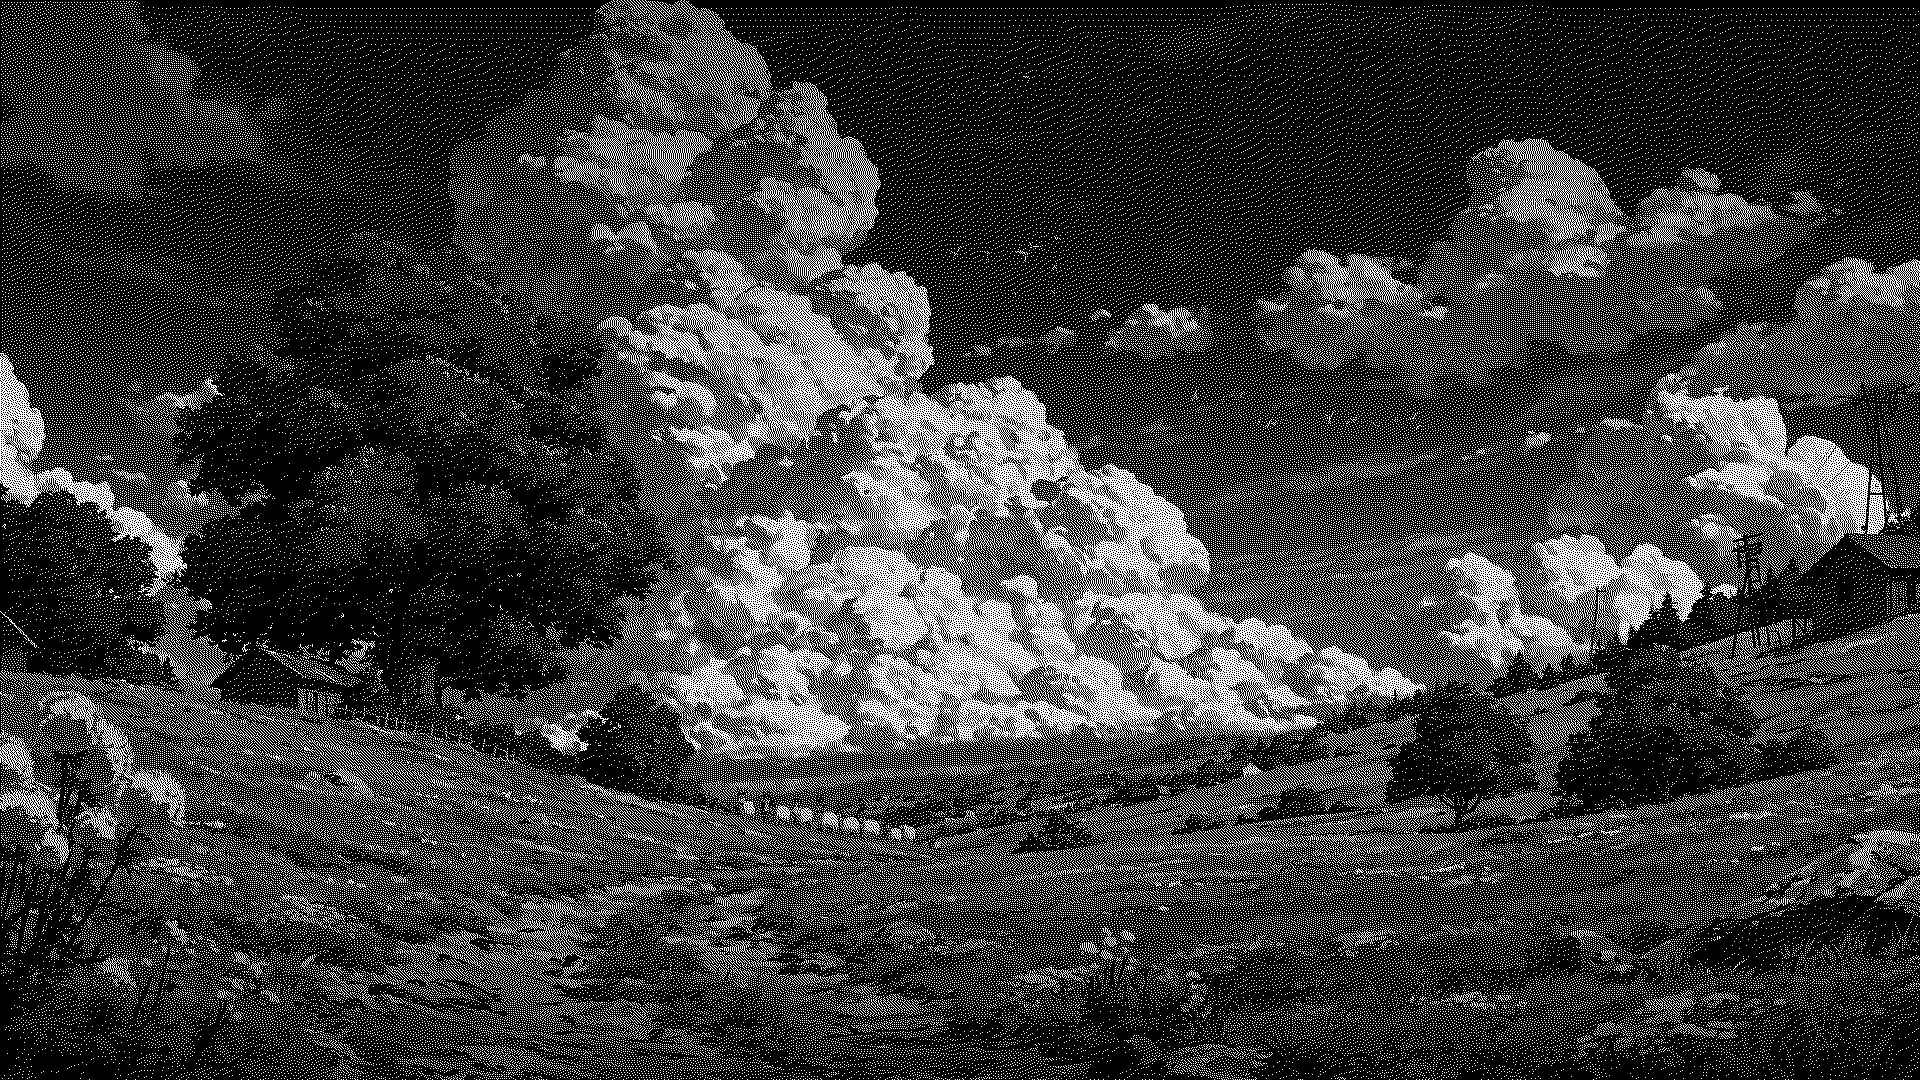
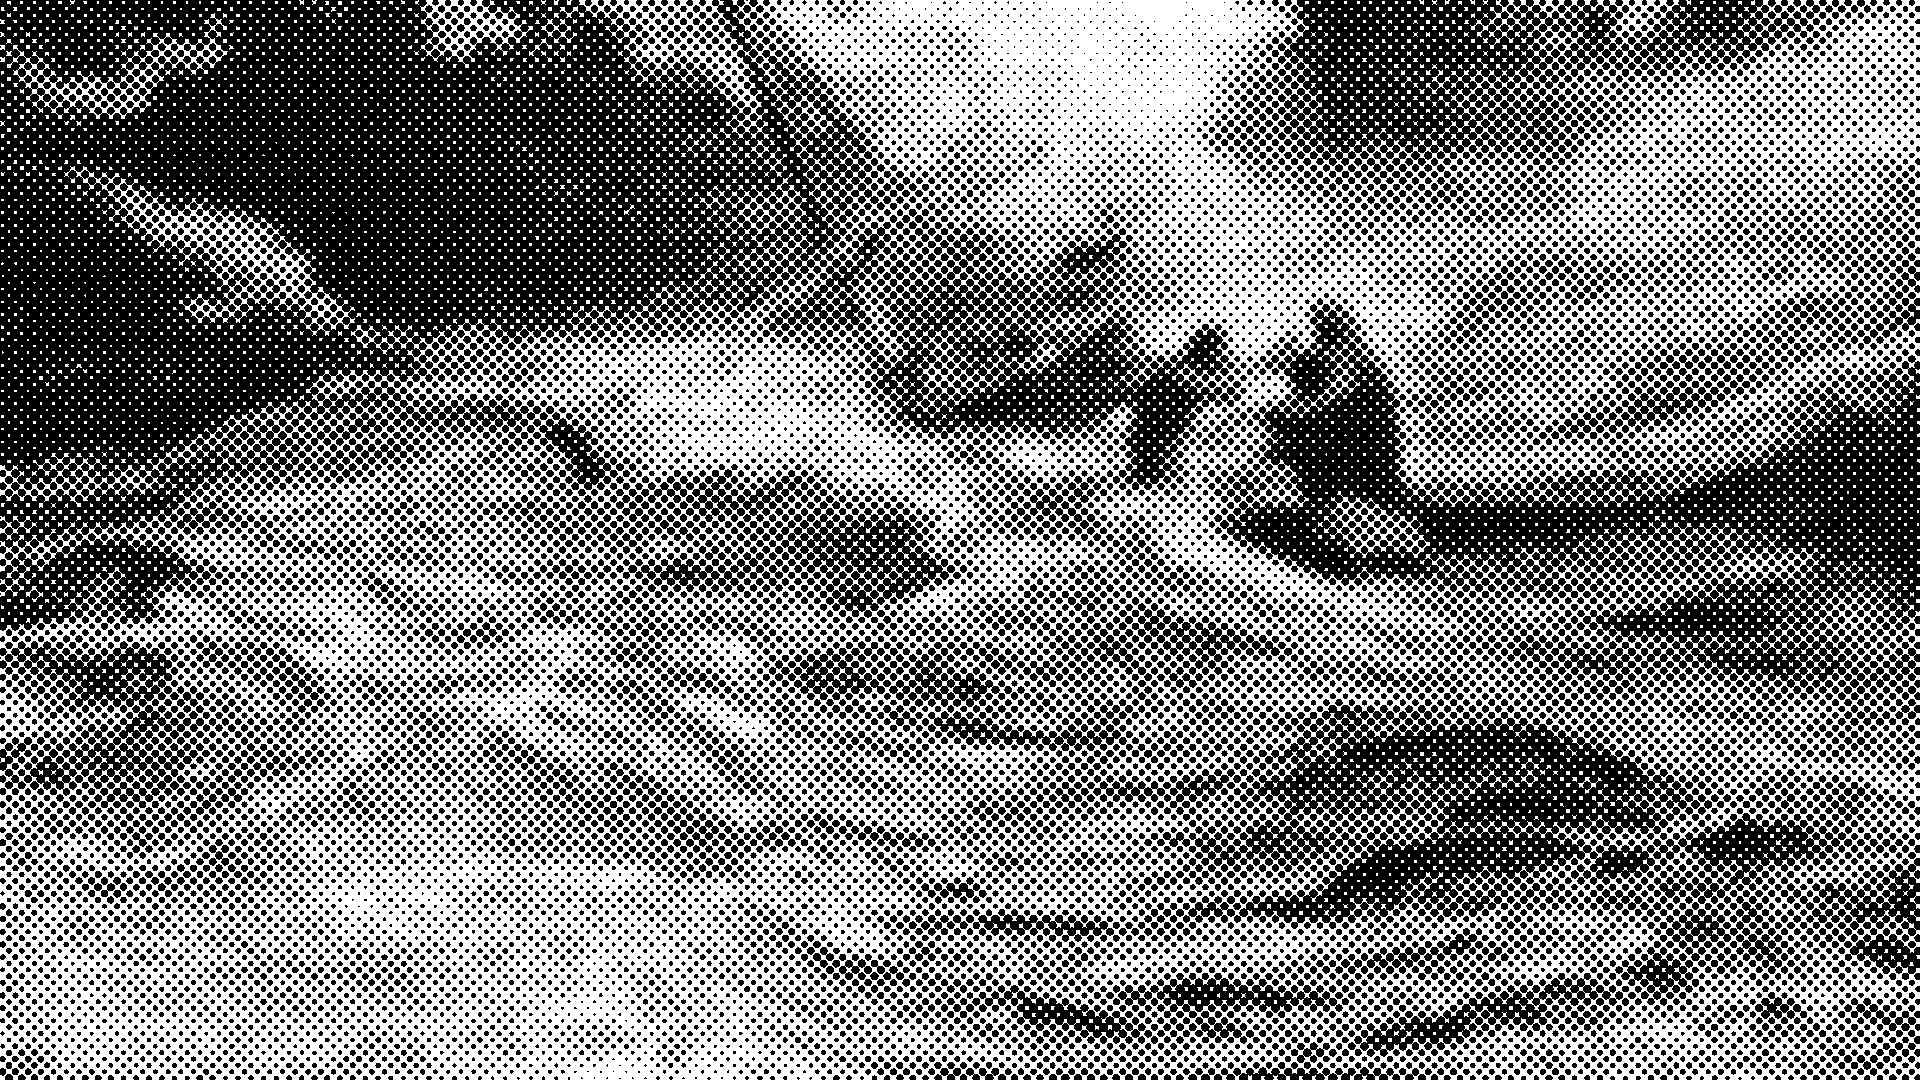
Samsung: halftone background, glass clock, centred standby, WWW → HDMI 3
The moving dither is gone: the background is now a 45-degree halftone of the
engraving, generated by tools/make_bg.py from tools/bg-source.jpg, so the dots
stay crisp at 1920 x 1080 and the picture keeps the same 16:9 crop.

The clock gets the same light-edged dark glass as the weather and the dock, with
a 10 px backdrop blur. When the screensaver takes over, the background dims by
half, the clock moves to the centre on its glass, and the date stays on it.

The remote's WWW key now opens HDMI 3, the way the native Home assignment sends
Home here: every browser-ish key the TV lists is registered and its code is
accepted, and the key name is matched too.

diff --git a/web/bw.css b/web/bw.css
@@ -1,7 +1,8 @@
 /*
- * Black-and-white look, on top of home.css: a dithered landscape behind everything, the clock at the top left, the next
+ * Black-and-white look, on top of home.css: a halftone seascape behind everything, the clock at the top left, the next
  * six hours of weather at the top center, Free My TV's settings at the top right and a dock of white logos.
- * Same limits as home.css: no CSS variables, grid or backdrop-filter; only transform and opacity animate.
+ * Same limits as home.css: no CSS variables or grid; only transform and opacity animate. The glass asks for a backdrop
+ * blur too, which older TVs ignore and show as flat dark glass.
  */
 
 html, body { background: #000; }
@@ -14,11 +15,17 @@ html, body { background: #000; }
 /* Nothing from the picks layout. */
 #title, #tabs, #quotes, #cards { display: none; }
 
-/* Clock: top left. */
+/* Clock: top left, on the same light-edged glass as the weather and the dock. */
 #clock, .no-picks #clock {
   display: block;
-  left: 76px;
-  top: 60px;
+  left: 48px;
+  top: 34px;
+  padding: 26px 44px 30px;
+  border-radius: 46px;
+  background: rgba(0, 0, 0, 0.5);
+  box-shadow: 0 18px 40px rgba(0, 0, 0, 0.35), inset 0 0 0 1.5px rgba(255, 255, 255, 0.32);
+  -webkit-backdrop-filter: blur(10px);
+  backdrop-filter: blur(10px);
   font-size: 150px;
   font-weight: 200;
   color: #F5F5F5;
@@ -37,8 +44,10 @@ html, body { background: #000; }
   transform: translateX(-50%);
   padding: 18px 30px;
   border-radius: 28px;
-  background: rgba(0, 0, 0, 0.68);
-  box-shadow: inset 0 0 0 1px rgba(255, 255, 255, 0.14);
+  background: rgba(0, 0, 0, 0.5);
+  box-shadow: inset 0 0 0 1.5px rgba(255, 255, 255, 0.32);
+  -webkit-backdrop-filter: blur(10px);
+  backdrop-filter: blur(10px);
   color: #F5F5F5;
   white-space: nowrap;
   font-feature-settings: 'tnum';
@@ -71,10 +80,12 @@ html, body { background: #000; }
 .round.focus, .night .round.focus { background: #F5F5F5; color: #000; }
 .round .tip, .night .round.focus .tip { color: #F5F5F5; }
 
-/* Dock: dark glass with white logos; the focused tile turns white with a black logo. */
+/* Dock: light-edged dark glass with white logos; the focused tile turns white with a black logo. */
 #platter, .night #platter {
-  background: rgba(0, 0, 0, 0.55);
-  box-shadow: 0 18px 40px rgba(0, 0, 0, 0.4), inset 0 0 0 1px rgba(255, 255, 255, 0.14);
+  background: rgba(0, 0, 0, 0.5);
+  box-shadow: 0 18px 40px rgba(0, 0, 0, 0.4), inset 0 0 0 1.5px rgba(255, 255, 255, 0.32);
+  -webkit-backdrop-filter: blur(10px);
+  backdrop-filter: blur(10px);
 }
 .tile, .night .tile { background: transparent; box-shadow: none; color: #F5F5F5; }
 .tile::after { display: none; }
@@ -85,5 +96,26 @@ html, body { background: #000; }
 .tile.off { opacity: 0.35; }
 .more, .night .more { color: rgba(245, 245, 245, 0.8); }
 
-/* Screensaver: the same landscape when there are no photos. */
+/* Screensaver: the same landscape when there are no photos, dimmed by half, with the clock centred on glass. */
 #saver { background: #000 url('bg.png') 0 0 no-repeat; background-size: 1920px 1080px; }
+#saver .shade {
+  left: 0;
+  right: 0;
+  top: 0;
+  bottom: 0;
+  height: auto;
+  background: rgba(0, 0, 0, 0.5);
+}
+#saver .clock {
+  left: 50%;
+  top: 50%;
+  bottom: auto;
+  -webkit-transform: translate(-50%, -50%);
+  transform: translate(-50%, -50%);
+  text-align: center;
+  background: rgba(0, 0, 0, 0.5);
+  box-shadow: 0 18px 40px rgba(0, 0, 0, 0.35), inset 0 0 0 1.5px rgba(255, 255, 255, 0.32);
+  -webkit-backdrop-filter: blur(10px);
+  backdrop-filter: blur(10px);
+}
+#saver .clock .date, .night #saver .clock .date { color: rgba(245, 245, 245, 0.78); }

diff --git a/web/tv.js b/web/tv.js
@@ -612,7 +612,22 @@ var TV = (function () {
       try { return Intl.DateTimeFormat().resolvedOptions().timeZone || ''; } catch (e) { return ''; }
     },
 
-    /** Key codes: the arrows, OK and the TV's Back (LG 461, Samsung 10009). */
-    keys: {left: 37, up: 38, right: 39, down: 40, ok: 13, back: samsung ? 10009 : 461}
+    /** Key codes: the arrows, OK, the TV's Back (LG 461, Samsung 10009) and the WWW/browser key. */
+    keys: (function () {
+      var k = {left: 37, up: 38, right: 39, down: 40, ok: 13, back: samsung ? 10009 : 461, www: [150, 178]};
+      // The WWW key's name differs by model; register every browser-ish key the TV lists and accept its code too.
+      if (samsung) {
+        try {
+          var list = window.tizen.tvinputdevice.getSupportedKeys();
+          for (var i = 0; i < list.length; i++) {
+            var name = list[i].name || '';
+            if (!/www|browser|internet/i.test(name)) continue;
+            try { window.tizen.tvinputdevice.registerKey(name); } catch (e) {}
+            if (k.www.indexOf(list[i].code) < 0) k.www.push(list[i].code);
+          }
+        } catch (e) {}
+      }
+      return k;
+    })()
   };
 })();

diff --git a/web/home.js b/web/home.js
@@ -879,6 +879,11 @@
     };
   }
 
+  /** The remote's WWW / Internet key goes straight to HDMI 3, the way the native Home assignment sends Home here. */
+  function wwwKey() {
+    launcher('source:HDMI:3', 'HDMI 3')();
+  }
+
   function tvSettings() {
     TV.settings(function (ok) {
       if (!ok) toast(tr("Couldn't open TV Settings"));
@@ -1112,6 +1117,7 @@
   document.addEventListener('keydown', function (e) {
     var k = e.keyCode;
     if (poke()) { e.preventDefault(); return; }   // the first press only wakes the screen
+    if (TV.keys.www.indexOf(k) >= 0 || /www|browser|internet/i.test(e.key || '')) { wwwKey(); e.preventDefault(); return; }
     if (k === TV.keys.left) move(-1, 0);
     else if (k === TV.keys.right) move(1, 0);
     else if (k === TV.keys.up) move(0, -1);

diff --git a/tools/make_bg.py b/tools/make_bg.py
@@ -1,0 +1,82 @@
+"""Makes the home screen's background: tools/bg-source.jpg as a 1920 x 1080 black-and-white halftone.
+
+    python3 tools/make_bg.py
+
+The source (a 16:9 crop of the engraving) is levelled and drawn as a 45-degree dot screen: one round black dot per
+cell, its size following the cell's darkness, the way a printed halftone does. The result is 1-bit, so the TV shows it
+crisp at any scale. web/bg.png is also the screensaver's background.
+"""
+import math
+import os
+
+from PIL import Image, ImageDraw, ImageFilter
+
+ROOT = os.path.dirname(os.path.dirname(os.path.abspath(__file__)))
+SRC = os.path.join(ROOT, 'tools', 'bg-source.jpg')
+OUT = os.path.join(ROOT, 'web', 'bg.png')
+
+WIDTH, HEIGHT = 1920, 1080
+CELL = 9          # distance between neighbouring dots, in pixels
+BLACK, WHITE = 85, 220   # levels: everything below BLACK is solid, above WHITE is blank
+GAMMA = 0.9
+MAX_RADIUS = 1.15  # times half a cell, so solid areas close up instead of leaving white corners
+SUPERSAMPLE = 3
+
+
+def crop_16x9(im):
+    """Center crop to 16:9 without stretching."""
+    want = WIDTH / float(HEIGHT)
+    w, h = im.size
+    if w / float(h) > want:
+        nw = int(h * want)
+        x = (w - nw) // 2
+        return im.crop((x, 0, x + nw, h))
+    nh = int(w / want)
+    y = (h - nh) // 2
+    return im.crop((0, y, w, y + nh))
+
+
+def levels(im):
+    lut = []
+    for v in range(256):
+        t = (v - BLACK) / float(WHITE - BLACK)
+        t = 0.0 if t < 0 else (1.0 if t > 1 else t)
+        lut.append(int(255 * (t ** GAMMA)))
+    return im.point(lut)
+
+
+def halftone(im):
+    # Draw at 3x and shrink, so each dot gets a round edge before the 1-bit cut. The screen is turned 45 degrees,
+    # which is how printed halftones look and keeps the dots from lining up with the picture's own lines.
+    scale = SUPERSAMPLE
+    sheet = Image.new('L', (WIDTH * scale, HEIGHT * scale), 255)
+    draw = ImageDraw.Draw(sheet)
+    dot = im.filter(ImageFilter.GaussianBlur(CELL / 2.0))
+    step = CELL / math.sqrt(2)
+    span = int((WIDTH + HEIGHT) / step) + 4
+    radius_max = CELL / 2.0 * MAX_RADIUS
+    for i in range(-span, span + 1):
+        for j in range(-span, span + 1):
+            x = (i - j) * step + CELL
+            y = (i + j) * step + CELL
+            if x < -CELL or x > WIDTH + CELL or y < -CELL or y > HEIGHT + CELL:
+                continue
+            v = dot.getpixel((max(0, min(WIDTH - 1, int(x))), max(0, min(HEIGHT - 1, int(y)))))
+            radius = radius_max * ((1.0 - v / 255.0) ** 0.5)
+            if radius <= 0.2:
+                continue
+            draw.ellipse([(x - radius) * scale, (y - radius) * scale,
+                          (x + radius) * scale, (y + radius) * scale], fill=0)
+    return sheet.resize((WIDTH, HEIGHT), Image.LANCZOS).point(lambda v: 0 if v < 128 else 255, '1')
+
+
+def main():
+    im = Image.open(SRC).convert('L')
+    im = crop_16x9(im).resize((WIDTH, HEIGHT), Image.LANCZOS)
+    im = levels(im)
+    halftone(im).save(OUT, optimize=True)
+    print('wrote %s (%d bytes)' % (os.path.relpath(OUT, ROOT), os.path.getsize(OUT)))
+
+
+if __name__ == '__main__':
+    main()
